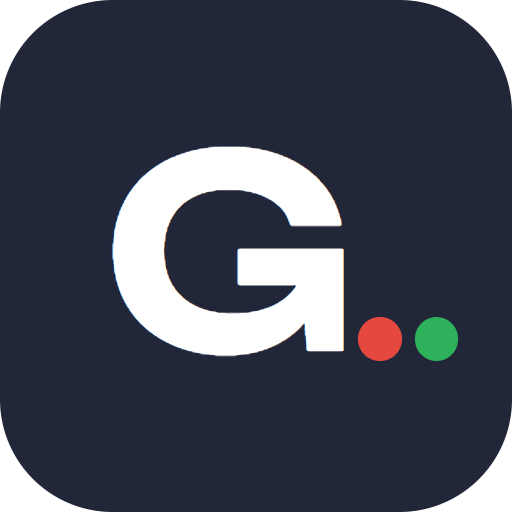
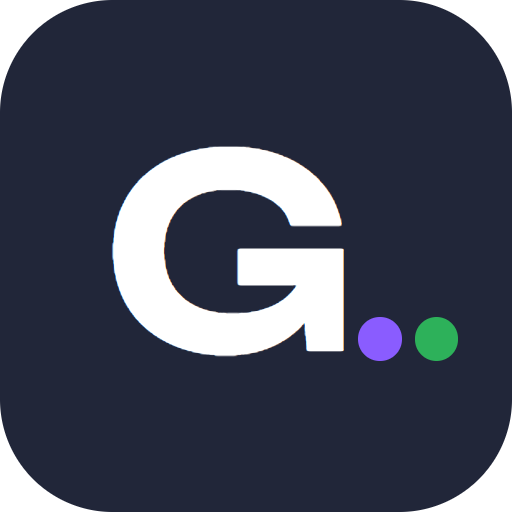
Grid Work: акцент ультрамарин вместо красного
Акцент рабочего режима — #6022F5 (наведение #4C16D4, светлый оттенок
#EFEAFE): логотип и точка, ползунок, активная вкладка, «Сегодня»,
кнопки, подсветка активного проекта. Белый текст на акценте — 6,9:1,
акцент на светлом оттенке — 5,9:1. Смысловые красные («Срочно»,
удаление, ошибки) не тронуты, Grid Life остаётся зелёным.

Точка рабочего режима на иконке приложения — светлый оттенок того же
цвета (#8A5CFF): сам #6022F5 на тёмном фоне иконки почти не виден.

Changed region(s): [[0.6875, 0.5938, 0.7812, 0.7188]]

diff --git a/grid.html b/grid.html
@@ -36,10 +36,10 @@
   --line:#E5E8F1;
   --line-2:#D2D7E6;
 
-  /* акцент режима: Grid Work — красный, Grid Life — зелёный (ниже) */
-  --accent:#C8302A;
-  --accent-hov:#A82720;
-  --accent-soft:#FCE8E6;
+  /* акцент режима: Grid Work — ультрамарин, Grid Life — зелёный (ниже) */
+  --accent:#6022F5;
+  --accent-hov:#4C16D4;
+  --accent-soft:#EFEAFE;
   --accent-ink:#FFFFFF;
 
   --p-low:#7B8AAD;    --p-low-soft:#EAEEF7;
@@ -79,9 +79,9 @@
 
 :root[data-mode="life"]{--accent:#167A38;--accent-hov:#12652E;--accent-soft:#E6F4EA}
 /* зарегистрированные цвета плавно перетекают при смене режима */
-@property --accent{syntax:"<color>";inherits:true;initial-value:#C8302A}
-@property --accent-hov{syntax:"<color>";inherits:true;initial-value:#A82720}
-@property --accent-soft{syntax:"<color>";inherits:true;initial-value:#FCE8E6}
+@property --accent{syntax:"<color>";inherits:true;initial-value:#6022F5}
+@property --accent-hov{syntax:"<color>";inherits:true;initial-value:#4C16D4}
+@property --accent-soft{syntax:"<color>";inherits:true;initial-value:#EFEAFE}
 :root{transition:--accent .3s,--accent-hov .3s,--accent-soft .3s}
 :root[data-mode="life"] .work-only,:root[data-mode="work"] .life-only{display:none !important}
 

diff --git a/CLAUDE.md b/CLAUDE.md
@@ -4,4 +4,4 @@ For current-project requests, load the installed SkipHow skill before consequent
 
 ## Проверка интерфейса
 
-Скилл `ui-ux-pro-max` лежит в `.claude/skills/ui-ux-pro-max` и в git не входит. Источник: https://github.com/nextlevelbuilder/ui-ux-pro-max-skill, коммит 076a2b3, папка `.claude/skills/ui-ux-pro-max`. Он нужен только для проверки качества интерфейса. Палитру, логотип и шрифты Grid меняет только владелец: шрифты и стиль логотипа прежние, у режимов свой акцент — Grid Work красный, Grid Life зелёный. Если указания скилла расходятся со SkipHow, действует SkipHow.
+Скилл `ui-ux-pro-max` лежит в `.claude/skills/ui-ux-pro-max` и в git не входит. Источник: https://github.com/nextlevelbuilder/ui-ux-pro-max-skill, коммит 076a2b3, папка `.claude/skills/ui-ux-pro-max`. Он нужен только для проверки качества интерфейса. Палитру, логотип и шрифты Grid меняет только владелец: шрифты и стиль логотипа прежние, у режимов свой акцент — Grid Work ультрамарин #6022F5, Grid Life зелёный; смысловые красные (срочно, удаление, ошибки) — не акцент. Если указания скилла расходятся со SkipHow, действует SkipHow.

diff --git a/README.md b/README.md
@@ -18,7 +18,7 @@
 ## Что умеет
 
 **Режимы.** Переключатель справа от логотипа меняет режим: «Grid Work»
-(красный акцент) или «Grid Life» (зелёный). Переключение мгновенное,
+(акцент ультрамарин) или «Grid Life» (зелёный). Переключение мгновенное,
 приложение запоминает последний режим на этом устройстве. В Grid Life
 скрыто всё рабочее — проекты, участники, фильтры и вкладки доски.
 Grid Life открывается без входа; Grid Work без входа показывает экран
